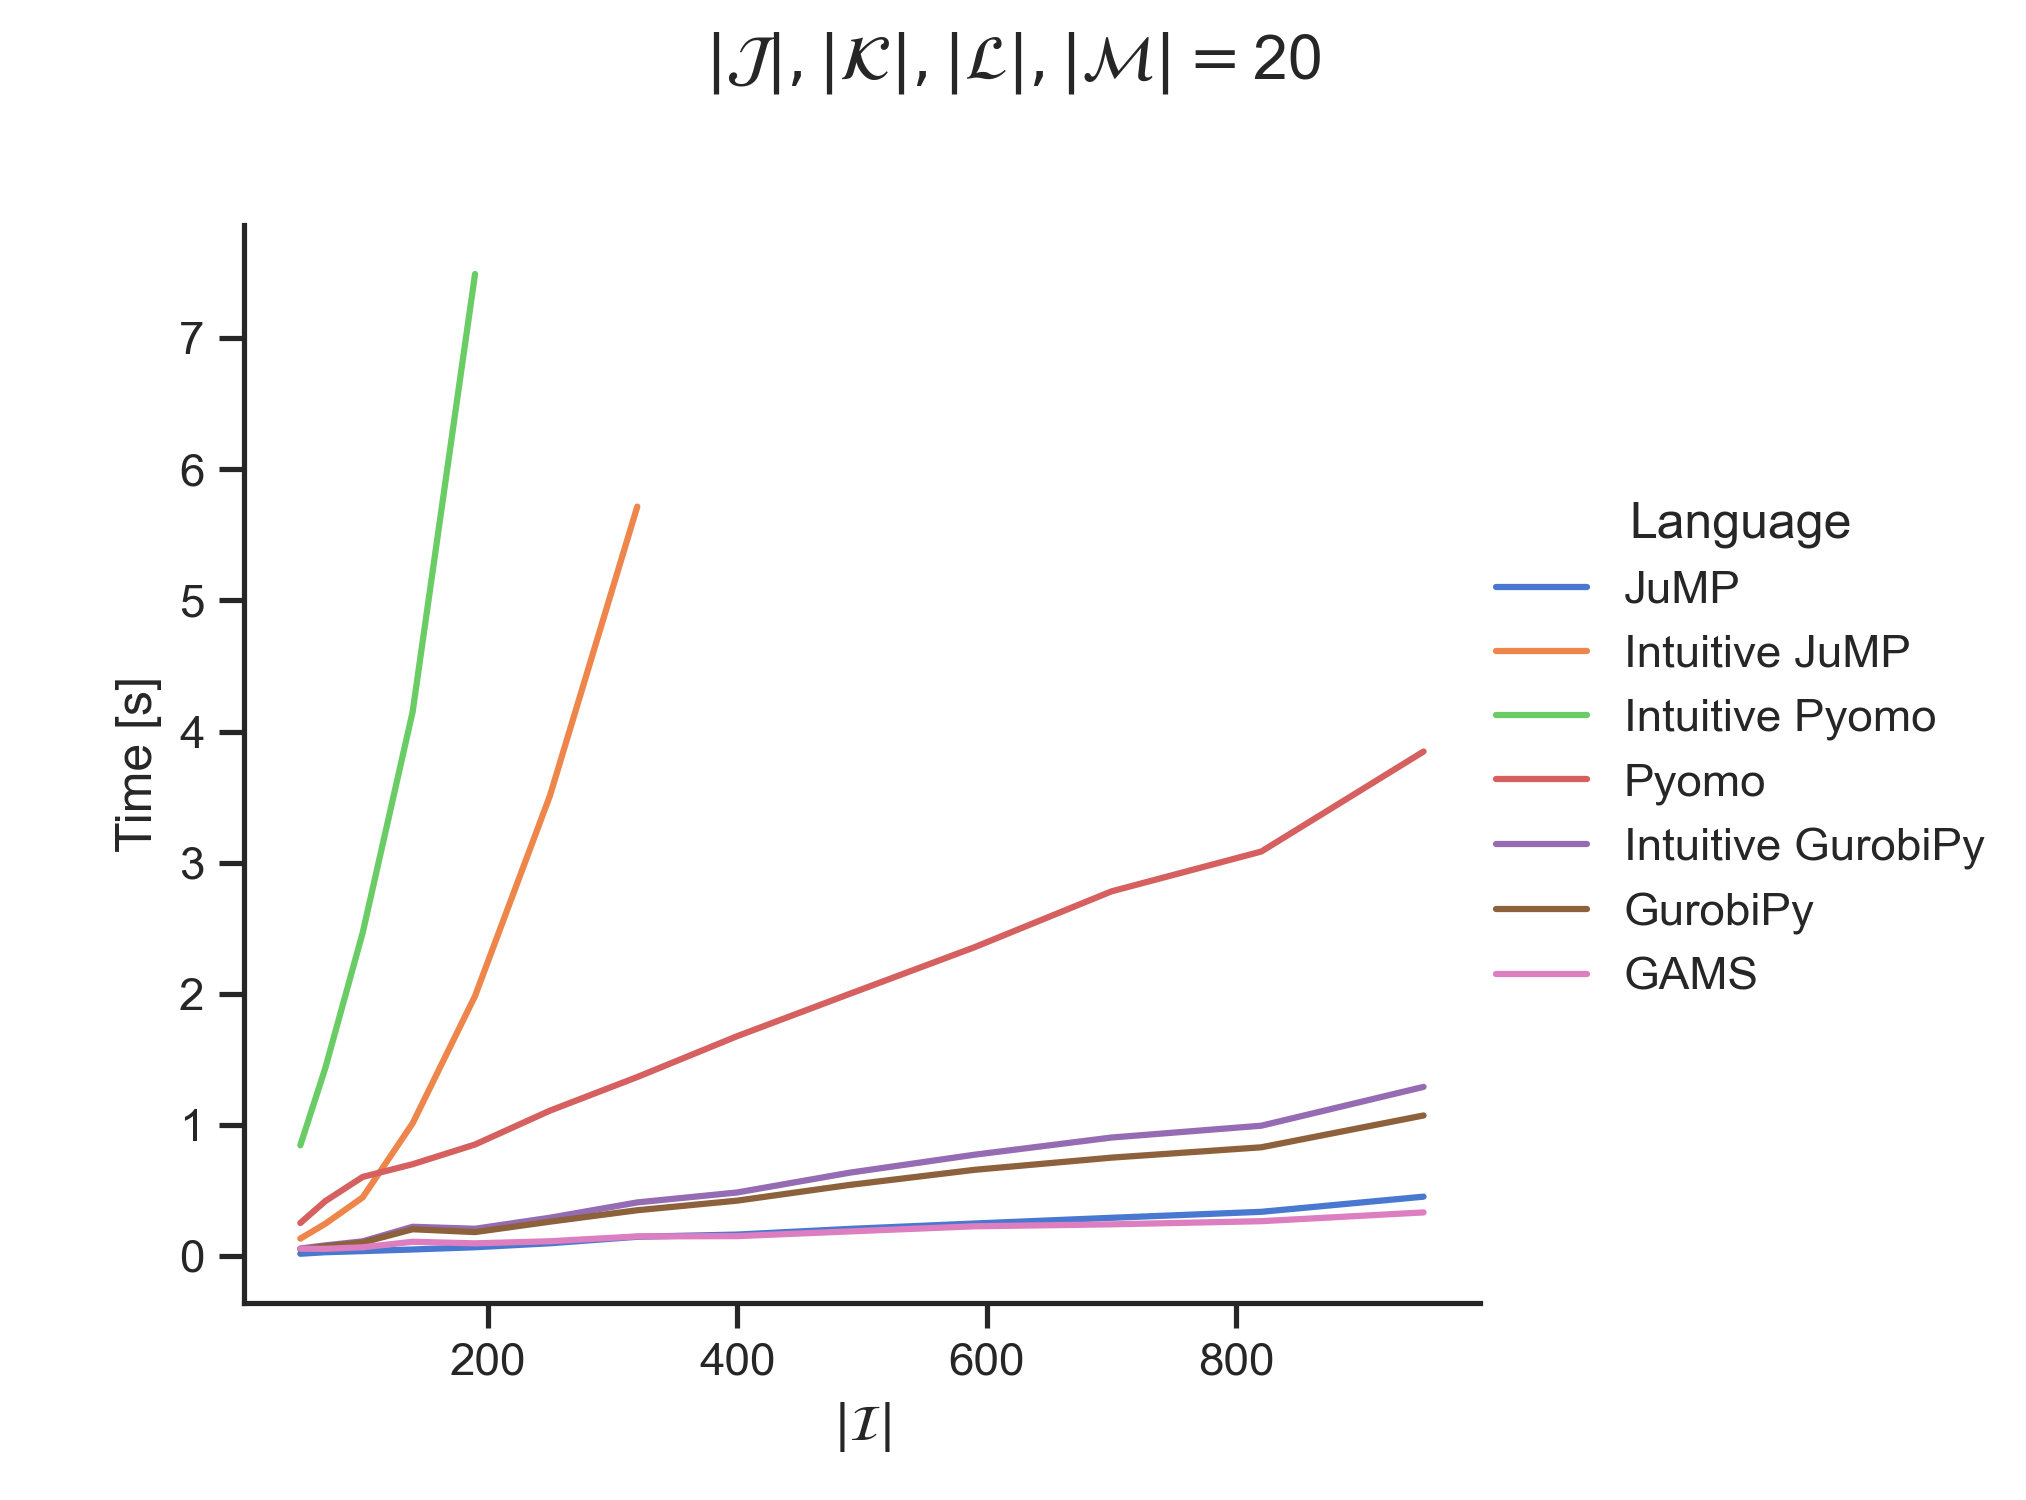
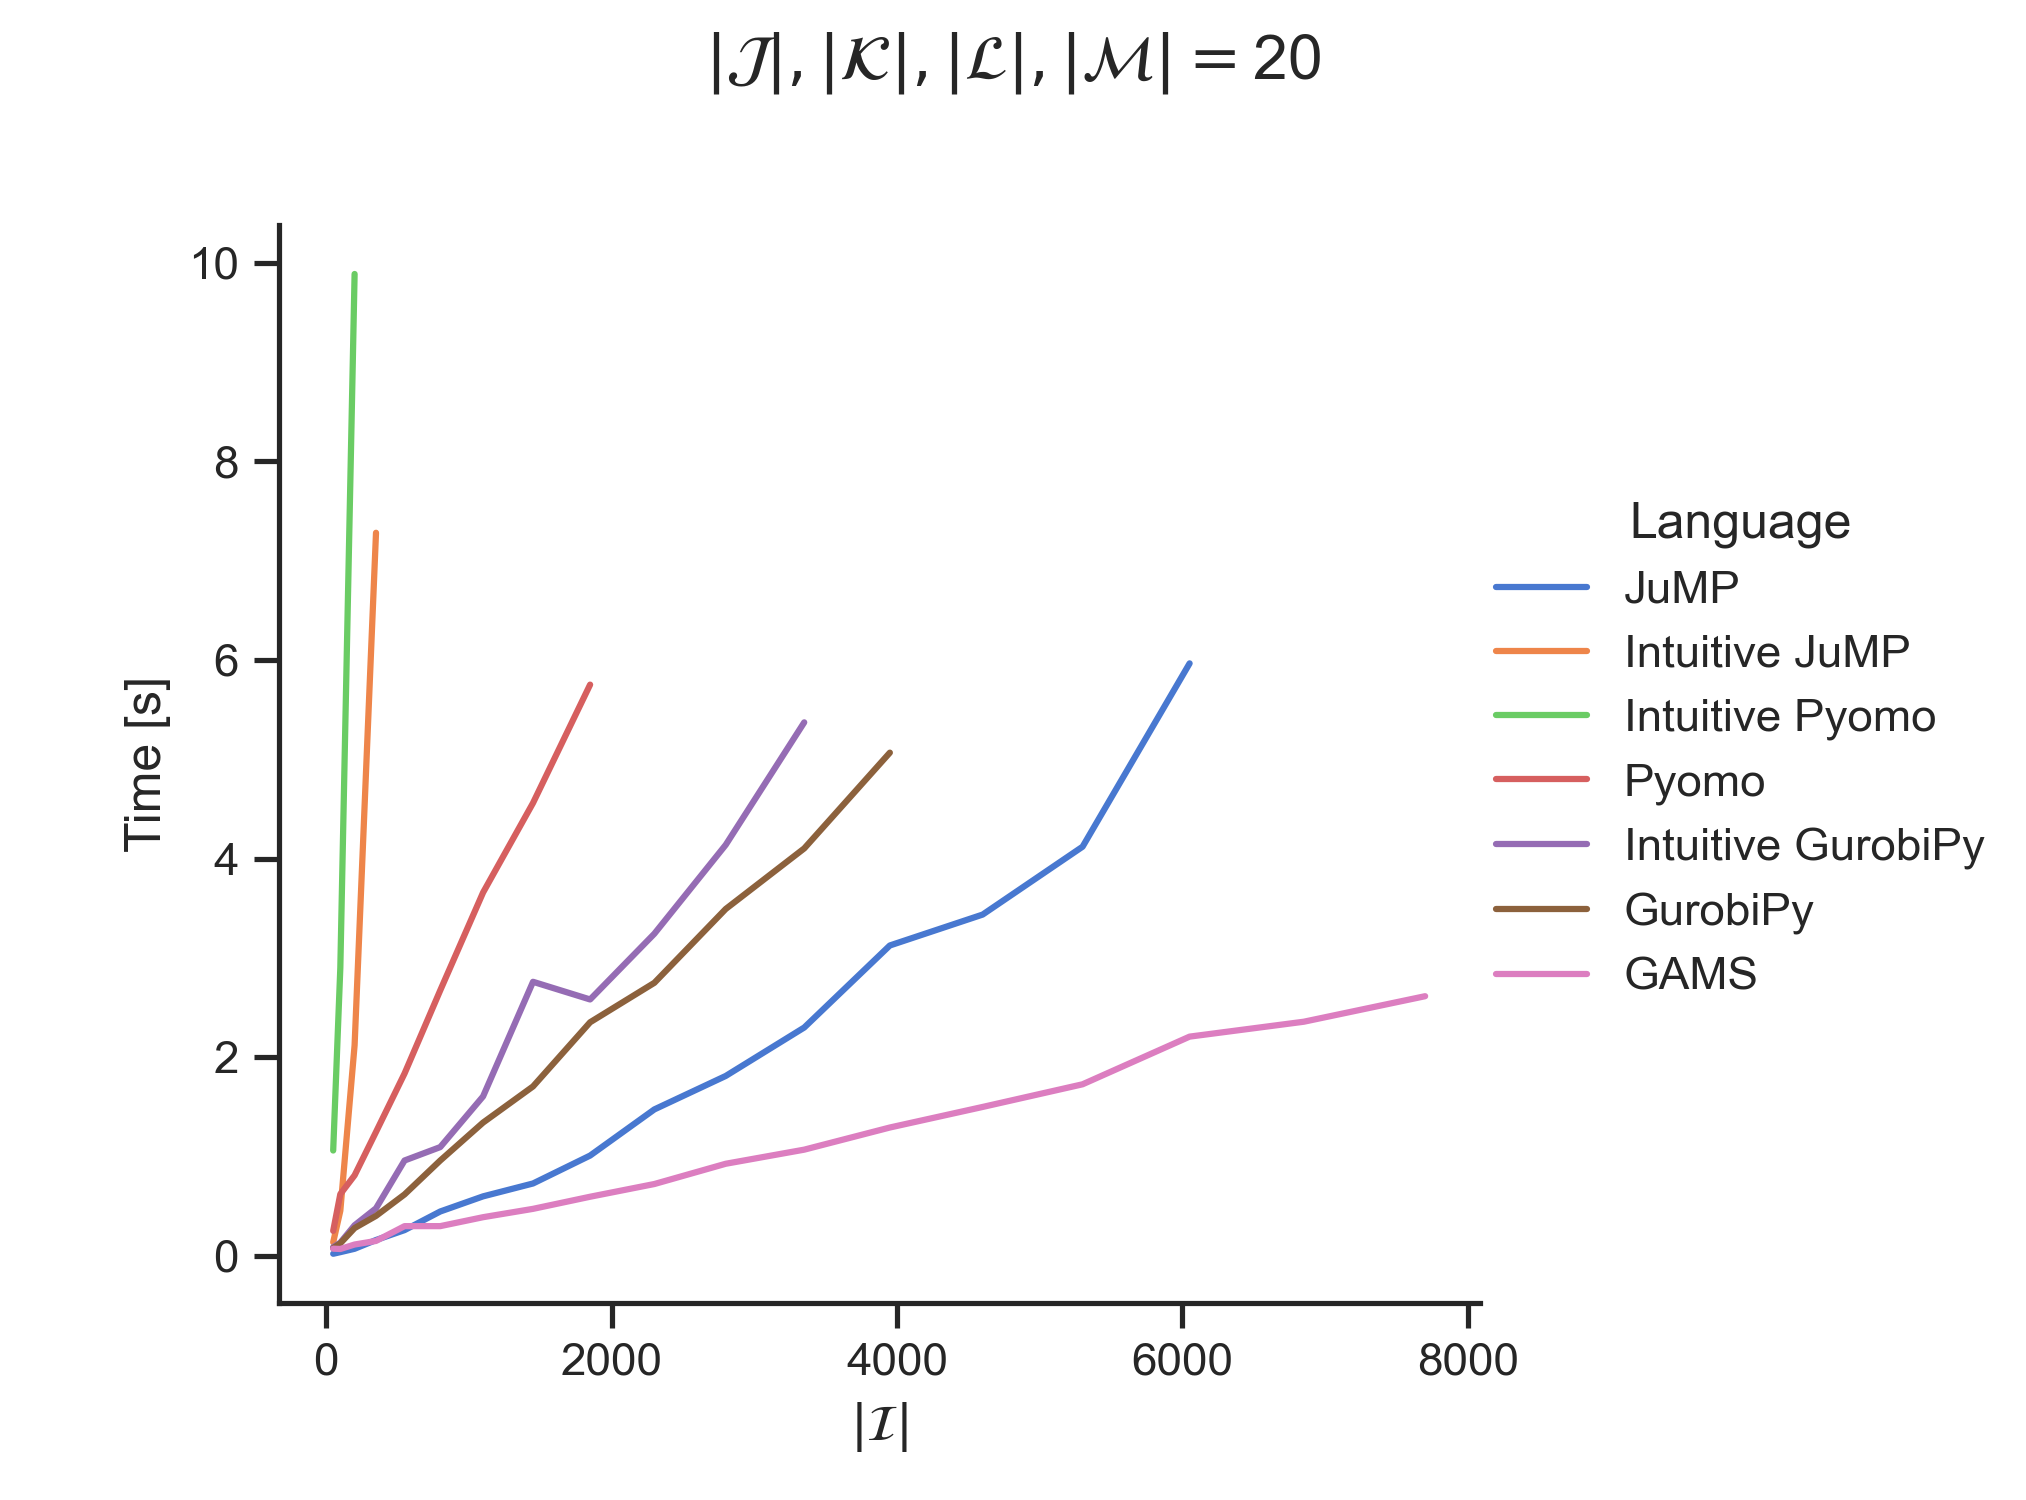
new results

diff --git a/supply_chain/run_pyomo.py b/supply_chain/run_pyomo.py
@@ -3,9 +3,6 @@ import logging
 import timeit
 import pandas as pd
 import numpy as np
-import itertools
-from collections import defaultdict
-from operator import itemgetter
 
 logging.getLogger("pyomo.core").setLevel(logging.ERROR)
 
@@ -161,7 +158,7 @@ def pyomo(IK, IL, IM, IJK, IKL, ILM, IK_IJK, IK_IKL, IL_IKL, IL_ILM, IM_ILM, D, 
 
     if solve:
         opt = pyo.SolverFactory("gurobi")
-        opt.solve(model, timelimit=0)
+        opt.solve(model, options={'TimeLimit': 0}, load_solutions=False)
 
 
 def production_rule(model, i, k):

diff --git a/main_suppy_chain.py b/main_suppy_chain.py
@@ -37,7 +37,7 @@ def run_experiment(
     df_gams = create_data_frame()
 
     # define the x axis
-    N = list(incremental_range(50, cardinality_of_i + 1, 20, 10))
+    N = list(incremental_range(50, cardinality_of_i + 1, 50, 50))
 
     # create fixed data and convert to tuples and dicts
     J, K, L, M = data.create_fixed_data(m=cardinality_of_j)
@@ -205,7 +205,7 @@ def run_experiment(
 
 
 if __name__ == "__main__":
-    CI = 1000
+    CI = 8000
     CJ = 20
 
     create_directories("supply_chain")
